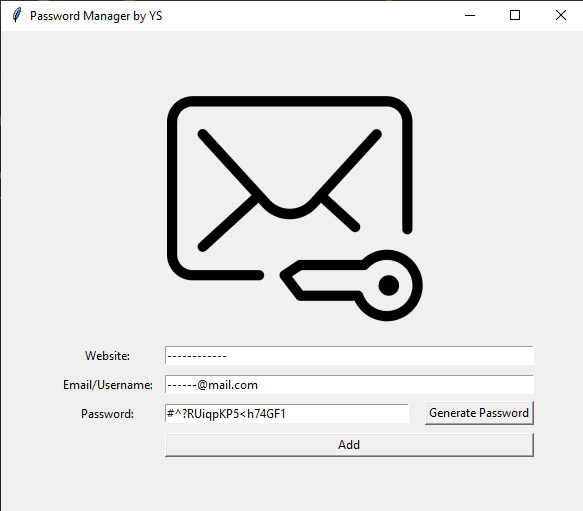
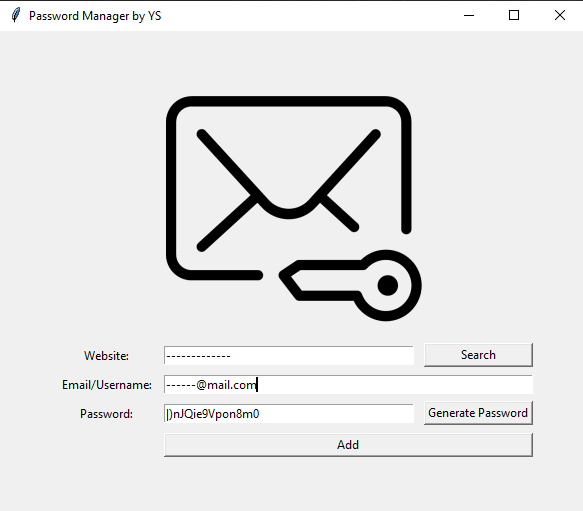
Search button added

diff --git a/main.py b/main.py
@@ -1,3 +1,4 @@
+import json
 import os
 import random
 import string
@@ -8,6 +9,8 @@ from tkinter import messagebox
 import pyperclip
 
 ######################    Used lines below here for make an .exe file with pyinstaller ####################
+
+
 def resource_path(relative_path):
     """ Get absolute path to resource, works for dev and for PyInstaller """
     try:
@@ -20,64 +23,107 @@ def resource_path(relative_path):
 ####################
 
 # Generator #
+
+
 def generate_password():
-  letters = string.ascii_letters
-  numbers = string.digits
-  symbols = string.punctuation
+    letters = string.ascii_letters
+    numbers = string.digits
+    symbols = string.punctuation
 
-  num_letters = random.randint(8, 10)
-  num_numbers = random.randint(2, 4)
-  num_symbols = random.randint(2, 4)
+    num_letters = random.randint(8, 10)
+    num_numbers = random.randint(2, 4)
+    num_symbols = random.randint(2, 4)
 
-  password_list = []
+    password_list = []
 
-  password_list = [random.choice(letters) for _ in range(num_letters)]
-  password_list += [random.choice(numbers) for _ in range(num_numbers)]
-  password_list += [random.choice(symbols) for _ in range(num_symbols)]
+    password_list = [random.choice(letters) for _ in range(num_letters)]
+    password_list += [random.choice(numbers) for _ in range(num_numbers)]
+    password_list += [random.choice(symbols) for _ in range(num_symbols)]
 
-  random.shuffle(password_list)
+    random.shuffle(password_list)
 
-  password = ''.join(password_list)
-  password_entry.delete(0, END)
-  password_entry.insert(0,password)
-  pyperclip.copy(password)
-  #print(f"Your password is: {password}")
+    password = ''.join(password_list)
+    password_entry.delete(0, END)
+    password_entry.insert(0, password)
+    pyperclip.copy(password)
+    
 
-#* Getting entries and create(or append) a data file.
+#* Search Function # 
+
+
+def search_func():
+    name = website_entry.get().title()
+    try:
+        with open('data.json', mode='r') as data_file:
+            data = json.load(data_file)
+            
+    except FileNotFoundError:
+        messagebox.showerror(title='Error', message='No Data File Found.')
+        
+    else:
+        for key in data.keys():
+            if name == key:
+                email = data[key]['email']
+                password = data[key]['password']
+                messagebox.showinfo(title='Info', message=f'Email: {email}\nPassword: {password}' )
+                pyperclip.copy(password)
+            else:
+                messagebox.showinfo(title='Info', message='No details for the website exists.')
+
+
+# * Getting entries and create(or append) a data file.
+
 
 def get_texts():
-    name = website_entry.get()
-    email = user_entry.get()
+    name = website_entry.get().title()
+    email = user_entry.get().lower()
     password = password_entry.get()
+    data_json = {
+        name: {
+            'email': email,
+            'password': password,
+        }
+    }
 
     if name == '' or email == '' or password == '':
         messagebox.showerror(title='Error', message='Please don\'t leave any empty fields.')
 
     else:
-        want_continue = messagebox.askyesno(title=name, message=f'These are the details: \n\nWebsite: {name} \nEmail: {email} \nPassword: {password} \n ')
+        want_continue = messagebox.askyesno(
+            title=name, message=f'These are the details: \n\nWebsite: {name} \nEmail: {email} \nPassword: {password} \n ')
 
         if want_continue:
-            data_format = f'{name} | {email} | {password}\n'
-            with open('data.txt', mode='a+') as datas:
-                datas.write(data_format)
-            
-            website_entry.delete(0, END)
-            password_entry.delete(0, END)
-    
-    
-#* UI
+            try:
+                with open('data.json', mode='r') as data_file:
+                    data = json.load(data_file)
+
+            except FileNotFoundError:
+                with open('data.json', mode='w') as data_file:
+                    json.dump(data_json, data_file, indent=4)
+
+            else:
+                data.update(data_json)
+                with open('data.json', mode='w') as data_file:
+                    json.dump(data, data_file, indent=4)
+
+            finally:
+                website_entry.delete(0, END)
+                password_entry.delete(0, END)
+
+
+# * UI
 
 window = Tk()
 #window.minsize(width=660, height=484)
 window.title('Password Manager by YS')
-window.config(padx= 50, pady=50)
+window.config(padx=50, pady=50)
 
 canvas = Canvas(width=256, height=256)
 lock_photo = PhotoImage(file=resource_path('logo.png'))
 canvas.create_image(130, 128, image=lock_photo)
 canvas.grid(column=1, row=0)
 
-#* Label
+# * Label
 
 website = Label(text='Website:', pady=5, padx=10)
 website.grid(column=0, row=1)
@@ -85,28 +131,31 @@ website.grid(column=0, row=1)
 user = Label(text='Email/Username:', pady=5, padx=10)
 user.grid(column=0, row=2)
 
-password = Label(text='Password:', pady=5, padx=10 )
+password = Label(text='Password:', pady=5, padx=10)
 password.grid(column=0, row=3)
 
-#* Entry
+# * Entry
 
-website_entry = Entry(width=35)
-website_entry.grid(column=1 , row=1, columnspan=2, sticky='EW', pady=5)
+website_entry = Entry(width=41)
+website_entry.grid(column=1, row=1, columnspan=2, sticky='W', pady=5)
 website_entry.focus()
 
 user_entry = Entry(width=35)
 user_entry.grid(column=1, row=2, columnspan=2, sticky='EW')
 
-password_entry = Entry(width=40)
+password_entry = Entry(width=41)
 password_entry.grid(column=1, row=3, sticky='W')
 
-#* Button
+# * Button
 
-generate_password = Button(text='Generate Password',highlightthickness=0, command=generate_password)
-generate_password.grid(column=2, row=3, sticky='EW')
+gen_pass = Button(text='Generate Password', highlightthickness=0, command=generate_password)
+gen_pass.grid(column=2, row=3, sticky='EW')
 
 add_button = Button(text='Add', width=35, command=get_texts, highlightthickness=0)
 add_button.grid(column=1, row=4, pady=5, columnspan=2, sticky='EW')
+
+search_button = Button(text='Search', highlightthickness=0, command=search_func)
+search_button.grid(column=2, row=1, sticky='EW')
 
 
 window.mainloop()

diff --git a/README.md b/README.md
@@ -1,7 +1,9 @@
 # Password_Manager
 
 It's a password manager. You need to fill the needed information, if you are not sure what password you want to choose, just click the 'Generate Password' button. 
-Created password automatically copied to your clipboard. If you fill all the blanks and click the add button, it will create a data.txt file and store your informations locally.
+Created password automatically copied to your clipboard. If you fill all the blanks and click the add button, it will create a data.json file and store your informations locally.
+
+Just click the search button to access the information of the website you wrote.A messagebox will appear on the screen with the information.
 
 You can download and use .exe file if you want to. Otherwise you need to download the logo.png and main.py, and make an .exe file
 
